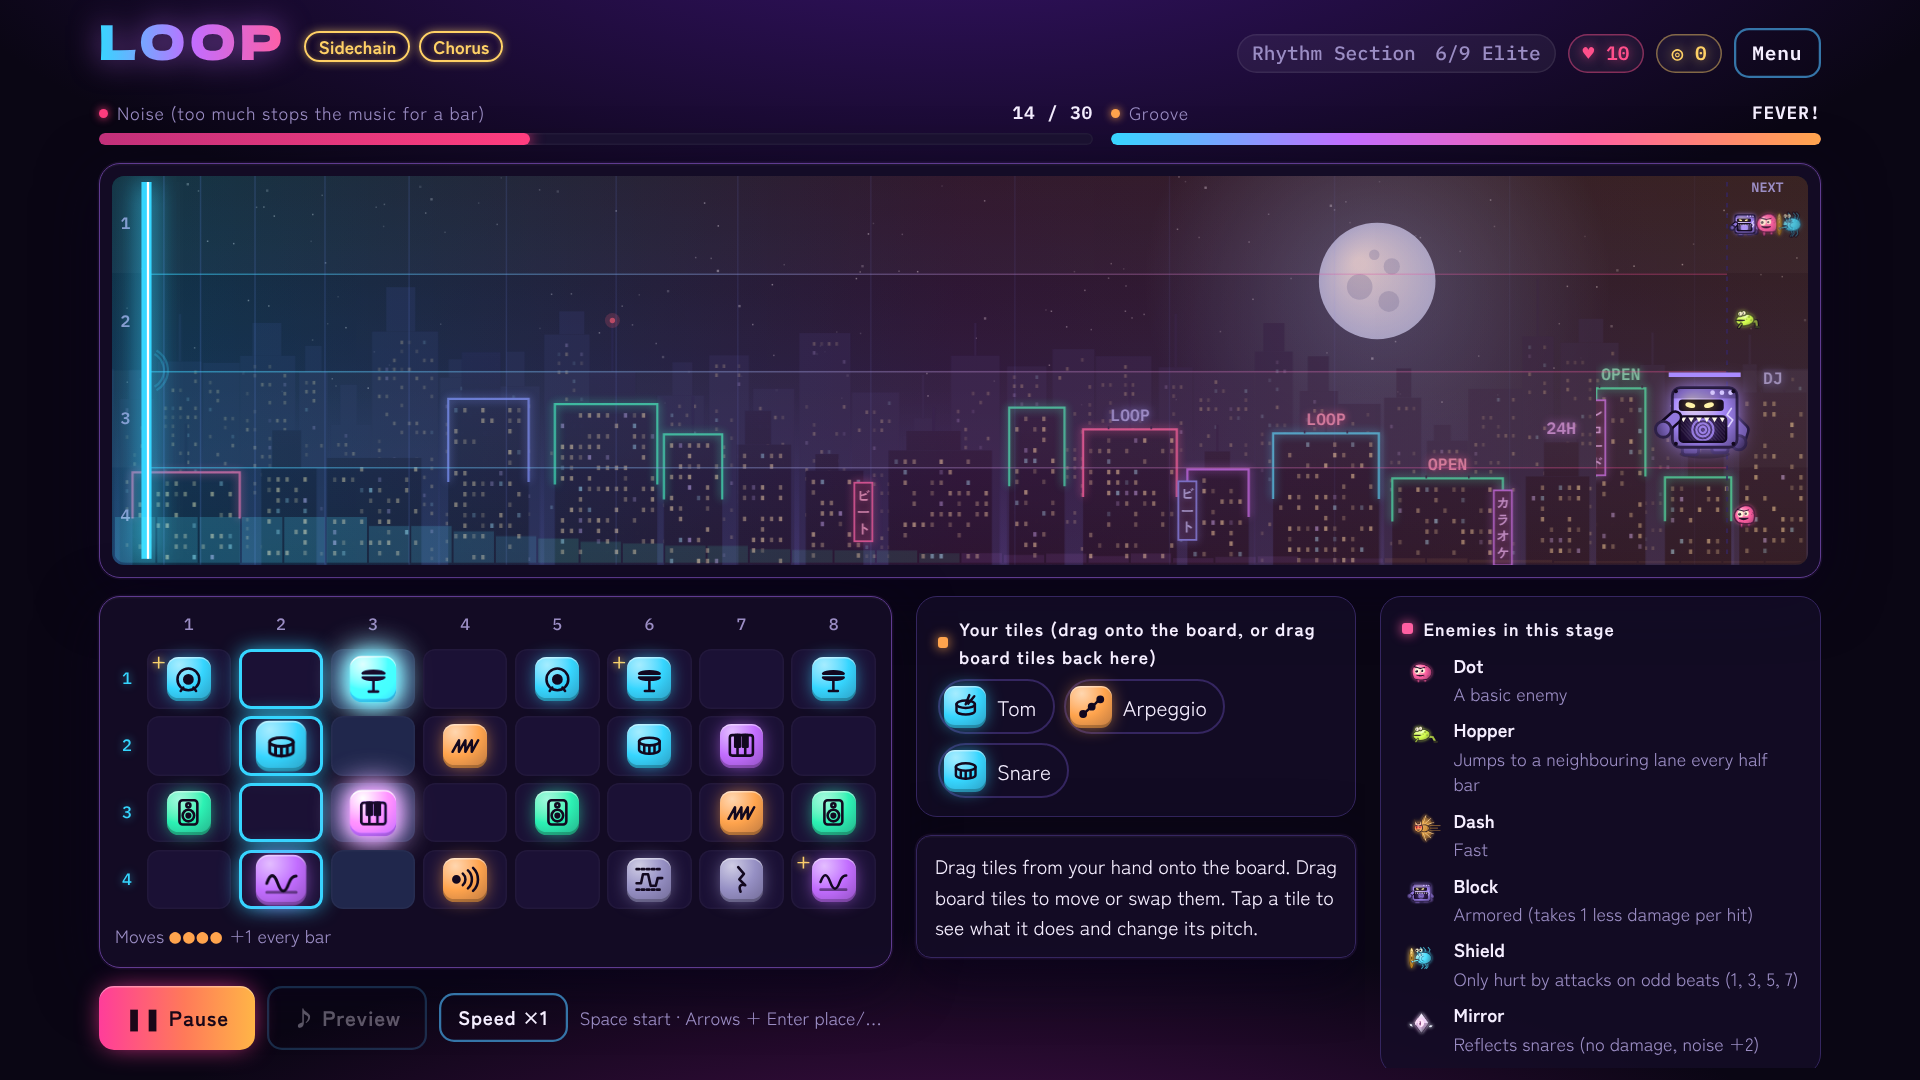
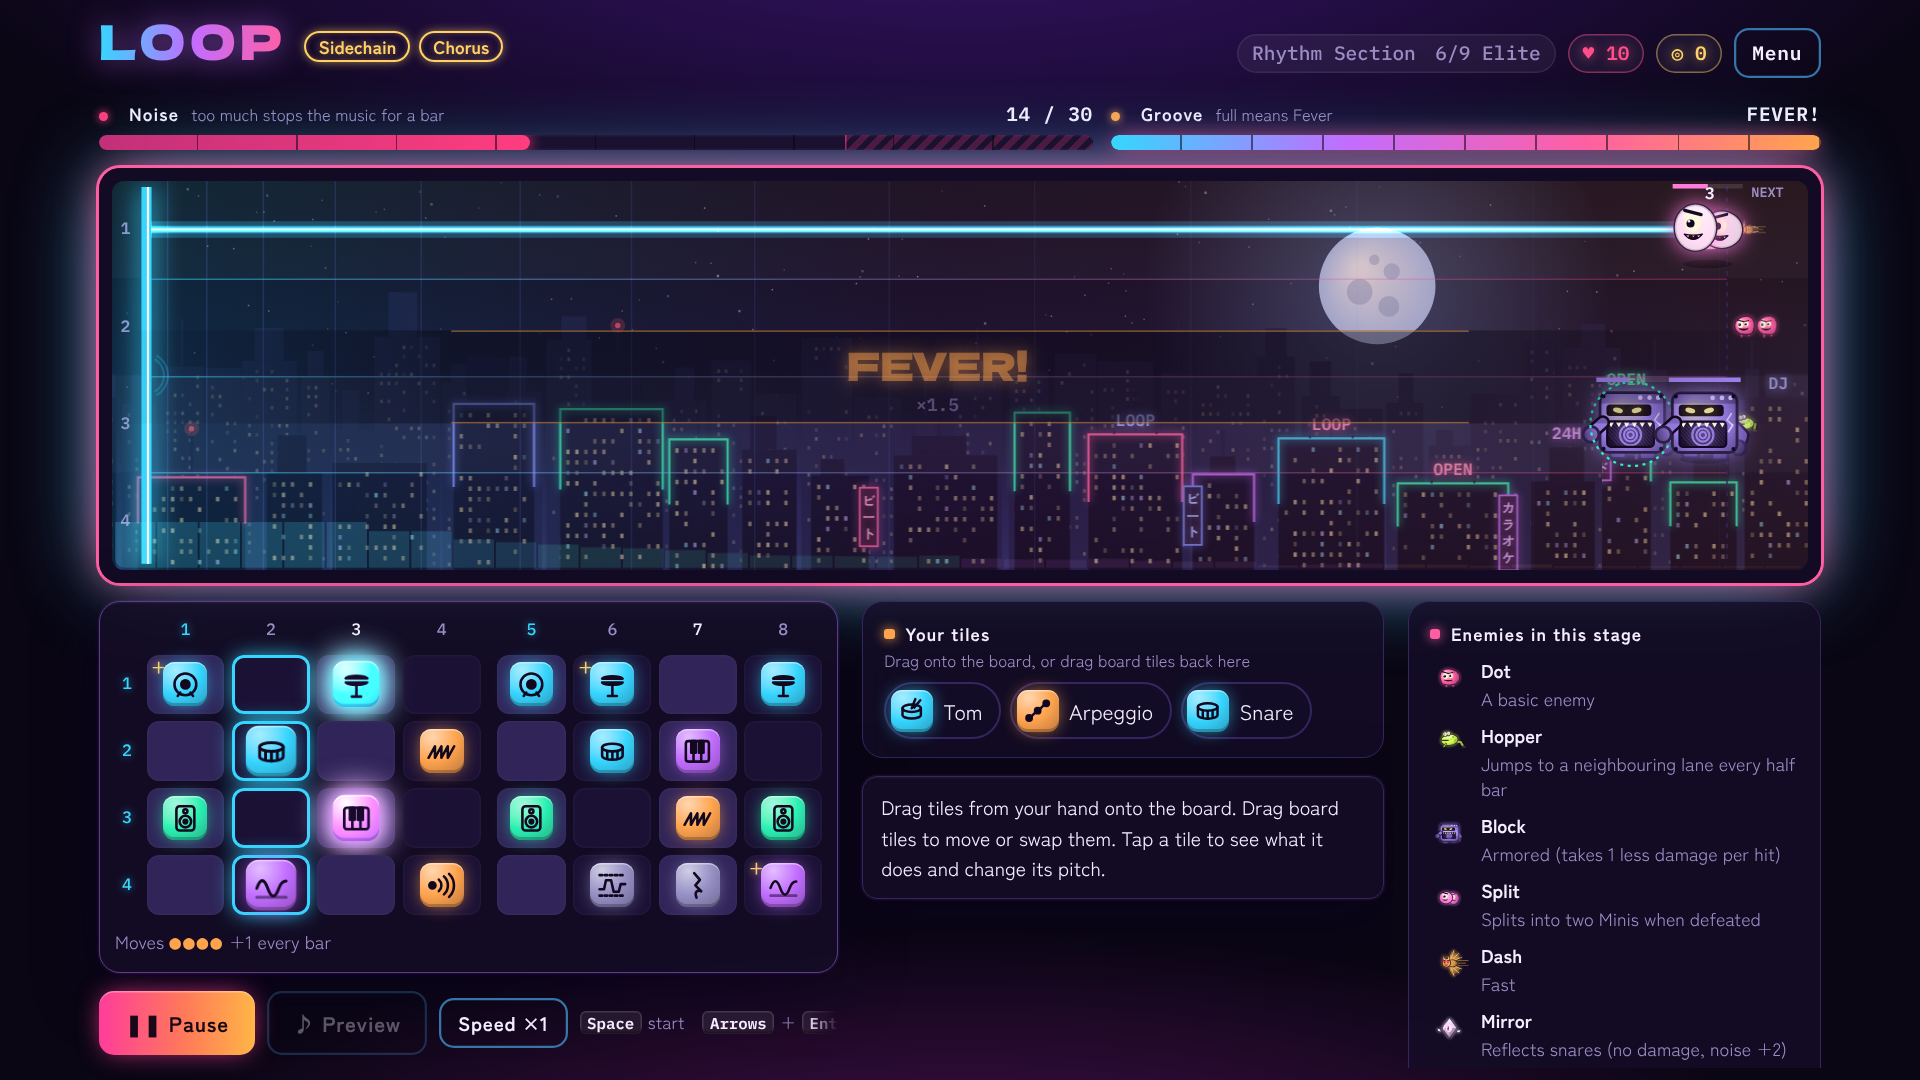
LOOP v3.4: battle HUD polish (level-meter gauges, reactive arena frame, odd-beat board shading, keycap hints, readable floating text)
Claude-Session: https://claude.ai/code/session_01LMYF2JBUaNhZnfXt7kDBCg

Changed region(s): [[0.0312, 0.0917, 0.9688, 0.9778]]

diff --git a/games/loop/prototype.html b/games/loop/prototype.html
@@ -192,7 +192,7 @@ canvas#field.hurt { animation: hurt .25s linear; }
   body { margin: 0; }
   .app { max-width: 1180px; height: calc(var(--vh) * 100); }
   .layout { flex: 1; min-height: 0; gap: 12px; }
-  .deck { flex: 1; min-height: 0; display: grid; grid-template-columns: minmax(0, 1.8fr) minmax(0, 1fr) minmax(0, 1fr); gap: 16px; align-items: stretch; }
+  .deck { flex: 1; min-height: 0; display: grid; grid-template-columns: minmax(0, 1.7fr) minmax(0, 1.2fr) minmax(0, .95fr); gap: 16px; align-items: stretch; }
   .main { min-height: 0; gap: 12px; }
   .side { min-height: 0; overflow-y: auto; padding: 4px 6px 4px 4px; margin: -4px -6px -4px -4px; }
   canvas#field { height: clamp(200px, calc(var(--vh) * 36), 520px); }
@@ -322,8 +322,8 @@ select { background: #1a1130; }
 .status .life { box-shadow: inset 0 0 0 1px color-mix(in srgb, var(--life) 45%, transparent); }
 .status .coins { box-shadow: inset 0 0 0 1px color-mix(in srgb, var(--gold) 45%, transparent); }
 .meter-label b { white-space: nowrap; }
-.meter-label span::before { content: ""; display: inline-block; width: 6px; height: 6px; margin-right: 6px; vertical-align: 1px; border-radius: 50%; background: var(--noise); box-shadow: 0 0 6px var(--noise); }
-.meter:nth-child(2) .meter-label span::before { background: var(--lead); box-shadow: 0 0 6px var(--lead); }
+.meter-label > span::before { content: ""; display: inline-block; width: 6px; height: 6px; margin-right: 6px; vertical-align: 1px; border-radius: 50%; background: var(--noise); box-shadow: 0 0 6px var(--noise); }
+.meter:nth-child(2) .meter-label > span::before { background: var(--lead); box-shadow: 0 0 6px var(--lead); }
 .lane-num { color: var(--drum); text-shadow: 0 0 6px color-mix(in srgb, var(--drum) 60%, transparent); }
 .chip { padding: 3px 11px 3px 3px; gap: 7px; }
 .chip .tile { width: 28px; height: 28px; }
@@ -422,6 +422,42 @@ body.title-on .modal { background: color-mix(in srgb, #0d0820 92%, transparent);
   .hero-tag { margin: 8px 0 0; font-family: var(--f-display); font-size: 27px; color: #fff; text-shadow: 0 0 18px rgba(255, 95, 162, .8), 0 2px 0 rgba(0, 0, 0, .5); }
   .hero-sub { margin: 0; font-size: 14px; letter-spacing: .12em; color: rgba(255, 255, 255, .75); text-shadow: 0 1px 6px rgba(0, 0, 0, .8); }
 }
+/* ---- battle HUD polish ---- */
+.meter-label { align-items: baseline; }
+.meter-label > span { display: inline-flex; align-items: baseline; gap: 8px; color: var(--fg); font-weight: 700; letter-spacing: .06em; }
+.meter-tip { font-size: 11px; font-weight: 400; color: var(--muted); letter-spacing: 0; }
+.meter-label > span { white-space: nowrap; }
+@media (max-width: 959px) { .meter-tip, .panel-hint { display: none; } }
+.meter-label b { font-size: 13px; }
+.bar { height: 10px; border-radius: 5px; }
+.bar > i { border-radius: 5px; }
+/* tick marks every 10% so the bars read like a level meter */
+.bar::after { content: ""; position: absolute; inset: 0; border-radius: inherit; pointer-events: none;
+  background: repeating-linear-gradient(90deg, transparent 0 calc(10% - 1px), rgba(7, 4, 15, .55) calc(10% - 1px) 10%); }
+.bar .danger { position: absolute; top: 0; bottom: 0; right: 0; width: 25%; pointer-events: none;
+  background: repeating-linear-gradient(135deg, rgba(255, 61, 127, .22) 0 4px, transparent 4px 8px); box-shadow: inset 1px 0 0 rgba(255, 61, 127, .6); }
+.bar.groove > i { transition: width .15s ease-out; }
+.bar.fever { box-shadow: 0 0 14px -2px #ff5fa2; }
+.panel-title { flex-wrap: wrap; row-gap: 0; }
+.panel-hint { font-size: 11px; font-weight: 400; color: var(--muted); letter-spacing: 0; }
+/* the board: odd beats (1, 3, 5, 7: the ones Shields can be hit on) are a shade lighter; a gap marks the half bar */
+.beat-num.odd { color: var(--fg); }
+.beat-num.down { color: var(--drum); text-shadow: 0 0 6px color-mix(in srgb, var(--drum) 60%, transparent); }
+.cell.odd { background: color-mix(in srgb, var(--cell) 62%, #50408c); }
+#board .cell.half, #beatNums .beat-num:nth-child(6) { margin-left: 6px; }
+/* key hints as keycaps */
+.controls .keys { display: flex; gap: 4px 12px; flex-wrap: nowrap; align-items: center; overflow: hidden;
+  -webkit-mask-image: linear-gradient(90deg, #000 88%, transparent); mask-image: linear-gradient(90deg, #000 88%, transparent); }
+.kh { display: inline-flex; align-items: center; gap: 4px; white-space: nowrap; font-size: 11.5px; }
+.kh kbd { font: 600 10.5px var(--f-mono); color: var(--fg); padding: 1px 5px; border-radius: 4px; background: rgba(255, 255, 255, .07);
+  box-shadow: inset 0 -1.5px 0 rgba(0, 0, 0, .5), inset 0 0 0 1px rgba(255, 255, 255, .14); }
+/* the battlefield frame reacts: rainbow glow in Fever, a red pulse when noise is about to overheat */
+.arena { transition: box-shadow .3s, border-color .3s; }
+.arena.fever { border-color: transparent; box-shadow: 0 0 0 2px #ff5fa2, 0 0 30px -4px #ff5fa2, 0 0 60px -10px #36d6ff; animation: feverFrame 1.2s linear infinite; }
+@keyframes feverFrame { 0%, 100% { box-shadow: 0 0 0 2px #ff5fa2, 0 0 30px -4px #ff5fa2, 0 0 60px -10px #36d6ff; } 33% { box-shadow: 0 0 0 2px #36d6ff, 0 0 30px -4px #36d6ff, 0 0 60px -10px #ffa44d; } 66% { box-shadow: 0 0 0 2px #ffa44d, 0 0 30px -4px #ffa44d, 0 0 60px -10px #c26dff; } }
+.arena.danger:not(.fever) { animation: dangerFrame .9s ease-in-out infinite; }
+@keyframes dangerFrame { 50% { box-shadow: 0 0 0 1.5px var(--noise), 0 0 26px -6px var(--noise); } }
+@media (prefers-reduced-motion: reduce) { .arena.fever, .arena.danger { animation: none; } }
 :root[data-cb] { --drum: #0072b2; --bass: #009e73; --harm: #cc79a7; --lead: #e69f00; --noise: #d55e00; --life: #d55e00; --fx: #7a7f8c; }
 .offer.locked { opacity: .55; padding: 6px 10px; gap: 2px; }
 .modal.start { gap: 10px; padding-block: 16px; }
@@ -451,11 +487,11 @@ body.title-on .modal { background: color-mix(in srgb, #0d0820 92%, transparent);
   <div class="layout">
   <div class="meters">
     <div class="meter">
-      <div class="meter-label"><span data-i18n="ui.noise"></span><b id="noiseText">0 / 30</b></div>
-      <div class="bar" id="noiseBar"><i></i></div>
+      <div class="meter-label"><span><span data-i18n="ui.noiseShort"></span><small class="meter-tip" data-i18n="ui.noiseTip"></small></span><b id="noiseText">0 / 30</b></div>
+      <div class="bar" id="noiseBar"><i></i><em class="danger"></em></div>
     </div>
     <div class="meter">
-      <div class="meter-label"><span data-i18n="ui.groove"></span><b id="grooveText">0%</b></div>
+      <div class="meter-label"><span><span data-i18n="ui.groove"></span><small class="meter-tip" data-i18n="ui.grooveTip"></small></span><b id="grooveText">0%</b></div>
       <div class="bar groove" id="grooveBar"><i></i></div>
     </div>
   </div>
@@ -484,7 +520,7 @@ body.title-on .modal { background: color-mix(in srgb, #0d0820 92%, transparent);
   </div>
   <div class="side side-a">
   <section id="handZone">
-    <p class="panel-title" data-i18n="ui.hand"></p>
+    <p class="panel-title"><span id="handTitle" data-i18n="ui.hand"></span><small class="panel-hint" data-i18n="ui.handHint"></small></p>
     <div class="hand" id="hand"></div>
   </section>
 
@@ -2168,7 +2204,7 @@ function drawField(dt) {
     cx.fillText(String(l + 1), 9, laneY(l));
   }
   if (G.fever > 0) { const fg = cx.createLinearGradient(0, 0, CW, 0); fg.addColorStop(0, '#36d6ff'); fg.addColorStop(.5, '#ff5fa2'); fg.addColorStop(1, '#ffa44d');
-    cx.fillStyle = fg; cx.globalAlpha = .08 + .07 * (G.pulse || 0); cx.fillRect(0, 0, CW, CH); cx.globalAlpha = 1; }
+    cx.fillStyle = fg; cx.globalAlpha = .03 + .05 * (G.pulse || 0); cx.fillRect(0, 0, CW, CH); cx.globalAlpha = 1; }
   // speaker / base line
   const pw = 3 + (G.pulse || 0) * 4;
   cx.shadowColor = C.playhead || C.drum; cx.shadowBlur = 12 + (G.pulse || 0) * 14;
@@ -2234,7 +2270,7 @@ function drawField(dt) {
     cx.globalAlpha = a; cx.fillStyle = t.warn ? C.noise : t.big ? C.lead : C.fg;
     cx.font = t.warn ? '700 12px ' + css('f-body') : t.big ? '700 17px "IBM Plex Mono", monospace' : '600 11px "IBM Plex Mono", monospace';
     const tx = Math.max(40, Math.min(CW - 40, xPix(t.x)));
-    cx.fillText(t.txt, tx, laneY(t.lane) - 14 - (1 - a) * 8);
+    cx.fillText(t.txt, tx, Math.max(9, laneY(t.lane) - Math.max(14, CH / LANES * .5) - (1 - a) * 8));
     t.life -= dt;
   }
   cx.globalAlpha = 1;
@@ -2321,7 +2357,7 @@ function tileHTML(id) {
   return `<span class="tile cat-${d.cat}"><svg viewBox="0 0 24 24" aria-hidden="true" fill="none" stroke="currentColor" stroke-width="2" stroke-linecap="round" stroke-linejoin="round">${ICONS[id] || ''}</svg></span>`;
 }
 function renderBeats() {
-  $('beatNums').innerHTML = '<div></div>' + Array.from({ length: STEPS }, (_, s) => `<div class="beat-num">${s + 1}</div>`).join('');
+  $('beatNums').innerHTML = '<div></div>' + Array.from({ length: STEPS }, (_, s) => `<div class="beat-num${s % 2 ? '' : ' odd'}${s % 4 ? '' : ' down'}">${s + 1}</div>`).join('');
 }
 function renderBoard() {
   let html = '';
@@ -2330,7 +2366,7 @@ function renderBoard() {
     for (let s = 0; s < STEPS; s++) {
       const tl = G.board[l][s];
       const sel = G.selCell && G.selCell.l === l && G.selCell.s === s;
-      const cls = ['cell', G.selHand >= 0 ? 'target' : '', sel ? 'selc' : '', tl && tl.p != null ? 'custom' : '', tl && tl.lv === 2 ? 'lv2' : ''].join(' ');
+      const cls = ['cell', s % 2 ? '' : 'odd', s === 4 ? 'half' : '', G.selHand >= 0 ? 'target' : '', sel ? 'selc' : '', tl && tl.p != null ? 'custom' : '', tl && tl.lv === 2 ? 'lv2' : ''].join(' ');
       html += `<button class="${cls}" data-l="${l}" data-s="${s}" aria-label="${t('b.cellAria', { l: l + 1, s: s + 1, name: tl ? tName(tl) : t('b.empty') })}">${tl ? tileHTML(tl.id) : ''}</button>`;
     }
   }
@@ -2361,6 +2397,8 @@ function renderNoise() {
   $('grooveText').textContent = G.fever > 0 ? t('f.fever') : gv + '%';
   $('grooveBar').firstElementChild.style.width = gv + '%';
   $('grooveBar').classList.toggle('fever', G.fever > 0);
+  document.querySelector('.arena').classList.toggle('fever', G.fever > 0 && G.phase === 'play');
+  document.querySelector('.arena').classList.toggle('danger', G.noise >= m * .75 && G.phase === 'play');
 }
 function renderTempo() {
   const el = $('tempoLabel');
@@ -2443,7 +2481,7 @@ const paletteIds = () => { const seen = new Set([...STARTER, ...store.get('seenT
 function renderHand() {
   const el = $('hand');
   recordSeen();
-  document.querySelector('#handZone .panel-title').textContent = G.studio ? t('studio.palette') : t('ui.hand');
+  $('handTitle').textContent = G.studio ? t('studio.palette') : t('ui.hand');
   if (!G.hand.length) { el.innerHTML = `<span class="empty-hand">${t('h.allPlaced')}</span>`; return; }
   el.innerHTML = G.hand.map((t, i) =>
     `<button class="chip ${i === G.selHand ? 'sel' : ''}" data-i="${i}">${tileHTML(t.id)}<span>${tName(t)}</span></button>`).join('');
@@ -2996,7 +3034,16 @@ $('menuBtn').addEventListener('click', () => { ensureAudio(); showMenu(); });
 // The hint under the controls follows the last device used, so a controller player sees button names.
 let lastInput = 'mouse';
 function setInput(kind) { if (lastInput !== kind) { lastInput = kind; updateKeysHint(); } }
-function updateKeysHint() { const el = document.querySelector('.keys'); const txt = t(lastInput === 'pad' ? 'ui.keysPad' : 'ui.keys'); el.textContent = txt; el.title = txt; }
+// Key hints as little keycaps: "Space start · Esc menu" -> <kbd>Space</kbd> start ...
+function updateKeysHint() {
+  const el = document.querySelector('.keys'), txt = t(lastInput === 'pad' ? 'ui.keysPad' : 'ui.keys');
+  const esc = x => x.replace(/[&<>"]/g, c => ({ '&': '&amp;', '<': '&lt;', '>': '&gt;', '"': '&quot;' })[c]);
+  el.innerHTML = txt.split(/\s*[　·]\s*/).filter(Boolean).map(part => {
+    const m = part.match(/^(\S+(?:\s*[+＋]\s*\S+)?)\s+(.+)$/);
+    return m ? `<span class="kh">${m[1].split(/\s*[+＋]\s*/).map(k => `<kbd>${esc(k)}</kbd>`).join('+')}<span>${esc(m[2])}</span></span>` : `<span class="kh">${esc(part)}</span>`;
+  }).join('');
+  el.title = txt;
+}
 document.addEventListener('pointerdown', () => setInput('mouse'), true);
 // Arrow keys or the d-pad move a cursor over the board; the same actions drive menus, so the game is playable without a mouse.
 let cursor = { l: 1, s: 0, on: false }, held = null;

diff --git a/games/loop/i18n.js b/games/loop/i18n.js
@@ -2,6 +2,7 @@
 // In the Steam build the default language comes from Steam (steamworks getCurrentGameLanguage).
 window.LOOP_I18N = {
   ja: {
+    'ui.noiseShort': 'ノイズ', 'ui.noiseTip': 'たまりすぎると1小節止まる', 'ui.grooveTip': '満タンでフィーバー',
     'title.tag': 'あなたの曲が、あなたを守る。', 'title.sub': '音楽ローグライト・ディフェンス',
     'r.next': '次の場所', 'v.song': 'あなたの曲',
     'bgm.rainy.name': '雨夜', 'bgm.rainy.mood': '雨音とエレピ', 'bgm.clash.name': '決戦', 'bgm.clash.mood': '轟く太鼓と警報',
@@ -19,7 +20,7 @@ window.LOOP_I18N = {
     'ui.listen': '♪ 試聴', 'ui.listenStop': '■ 試聴を止める', 'ui.speed': '速度 ×{n}',
     'ui.keys': 'Space 開始　矢印＋Enter 置く・動かす　Q/E タイル選択　Del 戻す　[ ] 音程　Esc メニュー',
     'ui.key': '調', 'ui.scale': '音階', 'ui.soundNote': '音の設定は強さに影響しません',
-    'ui.hand': '手持ちのタイル（盤面へドラッグ。盤面からここへ戻すこともできます）',
+    'ui.hand': '手持ちのタイル', 'ui.handHint': 'ドラッグで盤面へ。盤面から戻すこともできます',
     'ui.howtoTitle': '遊び方',
     'ui.howto': [
       '上のレーンを、敵が左のスピーカーに向かって進んできます。たどり着かれるとライフが減ります。',
@@ -34,7 +35,7 @@ window.LOOP_I18N = {
       '攻撃を当て続けるとグルーヴがたまり、満タンで2小節のフィーバー（攻撃1.5倍）。敵に抜かれると減ります。',
       '挑戦は戦闘の開始時と行き先を選ぶときに自動保存されます。',
     ],
-    'ui.proto': '試作版 v3.3 — タイトル画面',
+    'ui.proto': '試作版 v3.4 — 戦闘画面の磨き込み',
     'ui.lang': '言語',
     // board & field
     'f.immune': '無効', 'f.reflect': '反射', 'f.sealFloat': '{n}拍目を封印',
@@ -223,6 +224,7 @@ window.LOOP_I18N = {
   },
 
   en: {
+    'ui.noiseShort': 'Noise', 'ui.noiseTip': 'too much stops the music for a bar', 'ui.grooveTip': 'full means Fever',
     'title.tag': 'Your song is your defense.', 'title.sub': 'A MUSIC ROGUELITE DEFENSE',
     'r.next': 'Next stop', 'v.song': 'Your song',
     'bgm.rainy.name': 'Rainy Night', 'bgm.rainy.mood': 'Rain and electric piano', 'bgm.clash.name': 'Showdown', 'bgm.clash.mood': 'Thundering drums and sirens',
@@ -239,7 +241,7 @@ window.LOOP_I18N = {
     'ui.listen': '♪ Preview', 'ui.listenStop': '■ Stop preview', 'ui.speed': 'Speed ×{n}',
     'ui.keys': 'Space start · Arrows + Enter place/move · Q/E pick tile · Del remove · [ ] pitch · Esc menu',
     'ui.key': 'Key', 'ui.scale': 'Scale', 'ui.soundNote': 'Sound settings never change your power',
-    'ui.hand': 'Your tiles (drag onto the board, or drag board tiles back here)',
+    'ui.hand': 'Your tiles', 'ui.handHint': 'Drag onto the board, or drag board tiles back here',
     'ui.howtoTitle': 'How to play',
     'ui.howto': [
       'Enemies march along the lanes above toward your speaker on the left. Each one that reaches it costs you life.',
@@ -254,7 +256,7 @@ window.LOOP_I18N = {
       'Keep landing hits to build Groove. When it fills up you get two bars of Fever (attacks ×1.5). Letting an enemy through drains it.',
       'Your run is saved automatically at the start of each battle and whenever you choose a route.',
     ],
-    'ui.proto': 'PROTOTYPE v3.3 — Title screen',
+    'ui.proto': 'PROTOTYPE v3.4 — Battle screen polish',
     'ui.lang': 'Language',
     'f.immune': 'Immune', 'f.reflect': 'Reflected', 'f.sealFloat': 'Beat {n} sealed',
     'f.idle': '{node} — place tiles, then press Start stage',
@@ -439,6 +441,7 @@ window.LOOP_I18N = {
   },
 
   zh: {
+    'ui.noiseShort': '噪音', 'ui.noiseTip': '过高时会停奏1小节', 'ui.grooveTip': '满格进入狂热',
     'title.tag': '你的乐曲，就是你的防线。', 'title.sub': '音乐肉鸽塔防',
     'r.next': '下一站', 'v.song': '你的乐曲',
     'bgm.rainy.name': '雨夜', 'bgm.rainy.mood': '雨声与电钢琴', 'bgm.clash.name': '决战', 'bgm.clash.mood': '轰鸣的鼓与警报',
@@ -455,7 +458,7 @@ window.LOOP_I18N = {
     'ui.listen': '♪ 试听', 'ui.listenStop': '■ 停止试听', 'ui.speed': '速度 ×{n}',
     'ui.keys': 'Space 开始　方向键+Enter 放置/移动　Q/E 选择音块　Del 移除　[ ] 音高　Esc 菜单',
     'ui.key': '调', 'ui.scale': '音阶', 'ui.soundNote': '声音设置不会影响强度',
-    'ui.hand': '手中的音块（拖到盘面上，也可以从盘面拖回这里）',
+    'ui.hand': '手中的音块', 'ui.handHint': '拖到盘面上，也可以从盘面拖回这里',
     'ui.howtoTitle': '玩法',
     'ui.howto': [
       '敌人沿上方轨道向左侧的扬声器推进。被敌人抵达会损失生命。',
@@ -470,7 +473,7 @@ window.LOOP_I18N = {
       '持续命中可积累律动，充满后进入2小节的狂热（攻击×1.5）。被敌人突破会减少律动。',
       '每场战斗开始时以及选择路线时会自动保存进度。',
     ],
-    'ui.proto': '原型 v3.3 — 标题画面',
+    'ui.proto': '原型 v3.4 — 战斗画面打磨',
     'ui.lang': '语言',
     'f.immune': '无效', 'f.reflect': '反射', 'f.sealFloat': '封印第{n}拍',
     'f.idle': '{node}　摆好音块后点击“开始关卡”',

diff --git a/games/loop/README.md b/games/loop/README.md
@@ -318,6 +318,15 @@
 - 楽器セットのカードを、セットごとの色で縁取り（リズム隊＝水色、ハーモニー＝紫、ノイズ＝ピンク、パーカッション＝オレンジ、アンビエント＝ミント、ミニマル＝金）
 - 1920×1080 でも毎秒60コマ。動く背景の上でパネルにぼかし（すりガラス）をかけると毎フレーム描き直しになり32コマに落ちたため、ぼかしをやめてパネルを少し濃くした
 
+## v3.4 の追加（戦闘画面の磨き込み）
+
+- ノイズ・グルーヴのゲージ：名前を短くし、説明は横に小さく表示（スマホでは省略）。10%ごとの目盛りを入れ、ノイズの最後の25%に危険域の斜線
+- 戦場の枠が状態で光る：フィーバー中は虹色に、ノイズが75%を超えると赤く点滅（動きを減らす設定では点滅しない）。フィーバー中に戦場全体がオレンジに染まるのは弱めた
+- 盤面：奇数拍（1・3・5・7拍目＝シールドに攻撃が効く拍）のマスを少し明るく、拍番号も明るく。1拍目と5拍目は水色。4拍目と5拍目のあいだに小さな隙間（小節の半分）
+- 手持ちのタイル：見出しを短くし、操作の説明は小さな補足に。中央の列を広げ、タイルが1段に3つ並び、タイルの説明と音程の操作が画面に収まるように
+- キー操作の案内をキーの形（Space・Esc など）で表示
+- ダメージの数字や「無効」などの文字を、大きくなったモンスターの上に出すようにした（重なって読めなかった）
+
 ## 製品版の想定（10時間ボリューム）
 
 タイル約100種、装置約30種、楽器セット6種、ボス12体、難易度10段階、エンドレス、毎日の挑戦、スタジオモード、曲の保存・書き出し。
